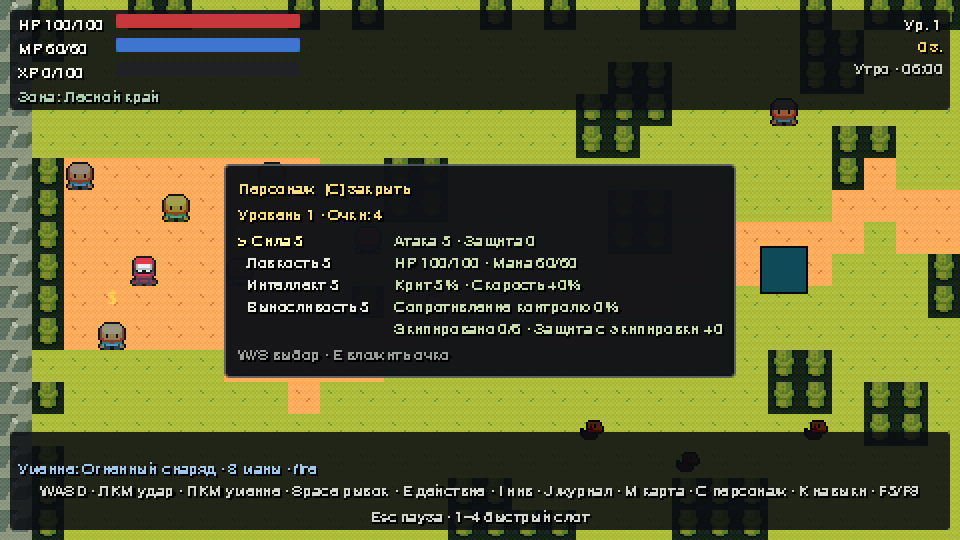
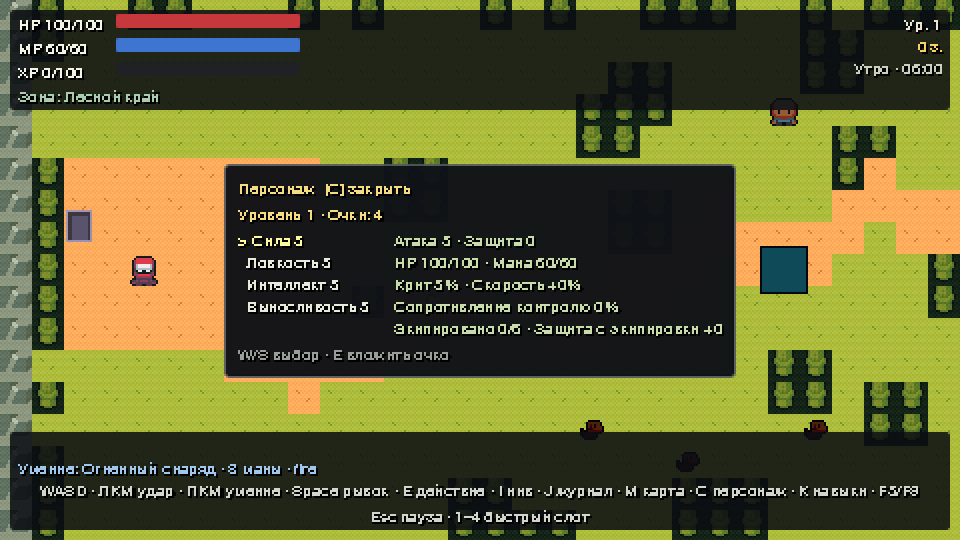
Скриншот деревни, документация на пять зон

diff --git a/TEST_PLAN.md b/TEST_PLAN.md
@@ -6,8 +6,8 @@
 
 ## 1. Назначение и границы
 
-Объект проверки — игра целиком: четыре переходящие сцены зон (`forest` с деревней
-на западной поляне, `ruins`, `dungeon`, `fortress`), девять NPC (Эдрик, торговец
+Объект проверки — игра целиком: пять переходящих сцен зон (`forest`, `village`,
+`ruins`, `dungeon`, `fortress`), девять NPC (Эдрик, торговец
 Йорек, кузнец Бран, травница Мила, плотник Серис, оружейница Альвена, Нела, Орен и
 Пепельный Паломник) плюс скрижаль `RuinTablet` в руинах, двенадцать квестов
 (`q01_ash_wolves` … `q12_officers_seal`), ветвящийся диалог, восемнадцать типов
@@ -22,8 +22,7 @@
 План отвечает на три вопроса: не сломалась ли логика, проходит ли игровой путь
 от NPC до награды, и что по-прежнему обязан посмотреть человек.
 
-Вне области проверки сознательно: отдельная сцена деревни (её нет — это безопасная
-область леса), озвучка шагов и звука дверей, доступность и снижение интенсивности
+Вне области проверки сознательно: озвучка шагов и звука дверей, доступность и снижение интенсивности
 эффектов, экспорт под Windows, soak длиннее 600 с (ТЗ просит 30–60 минут — см.
 §7), проигрыватель реплея (грани ввода пишутся в `replay/commands.jsonl`, но
 повторять их пока нечем), геймпад кроме атаки на `X`,
@@ -110,13 +109,13 @@ TESTS='godot --headless --path . --script res://tests/test_core.gd'   # $TESTS
 | `craft` | `data/recipes.json` — ровно 4 рецепта: 2 у кузнеца, 2 у травника, у неизвестного и пустого стенда пусто; причины отказа `unknown_recipe`, `locked`, `not_enough_gold`, `missing_material`, `no_space`; крад тратит ровно свои 5 золота и 2 материала и выдаёт результат, отказ не тратит ничего и не меняет число слотов; превью называет рецепт, пошлину, выход и пару need/have, у неизвестного рецепта пустое; разблокировка работает только у рецепта с флагом, ставит флаг и переживает save/load, чужой рецепт остаётся закрытым; `temper_sword` даёт постоянные +2 к атаке (5+6+2 в бою, в сумке не считает), повтор отвергается как `already_upgraded` без трат, улучшение переживает round-trip и не удваивается при повторном надевании; `reinforce_armor` не требует флага и даёт +1 защиты; в сцене стенд с подсказкой «Ремесло» открывается настоящим `interact` без трат, показывает 2 рецепта, строку деталя с предметом и «Атака +2» и материал 3/4, закрытый рецепт даёт текст `Рецепт ещё не известен`, `E` крафтит за 30 золота, повтор даёт `Это уже улучшено`, `Esc` закрывает без паузы, `I` проглатывается, модалки стенд/лавка/инвентарь передают `ui_blocking` друг другу |
 | `dialogues` | `DialogueDB` знает `edrik_intro` и `edrik_after_hunt`, неизвестного id нет, реплики привязаны к говорящему; узел выбора даёт ровно 2 варианта, неизвестный узел и неизвестный диалог читаются пустыми; `edrik_after_hunt` не стартует, пока квест не выполнен, и не стартует, пока квест активен; бегунок открывается на стартовом узле с говорящим «Эдрик» без вариантов, `advance` на узле выбора — no-op, выход за последний вариант и отрицательный индекс отвергаются без перехода; выбранный вариант ставит флаг `accepted_wolf_hunt` и запускает `q01_ash_wolves`, последняя реплика завершает разговор; жадный путь возвращается на узел выбора и квест не начинает; прочитанные узлы ключуются `dialogue_id:node_id`, не дублируются при повторной отметке, различаются между диалогами и переживают JSON round-trip; `skip_remaining` открывает всю текущую реплику |
 | `day_cycle` | `data/schedules.json` читается: 4 фазы, 3 NPC, положительная длина суток; `Forest` создаёт узел `DayClock`, фаза на заданной доле совпадает с таблицей, на старте доля равна 0 и потом растёт; под `ui_blocking` и на паузе часы не идут и жители не сдвигаются; каждая точка расписания проходима на сгенерированной карте, `Edrik`/`Yorek`/`Bran` несут `ScheduleComponent`, стартуют в утренней фазе на утренней точке, по принуждении ночи расходятся по домашним клеткам и никогда не оказываются на непроходимой; непроходимая, отсутствующая и sentinel-клетка отклоняются проверкой проходимости, безопасные обходятся; в HUD строка часов `Утро · 06:00` на доле 0 и `День · 12:00` на доле 0.25 |
-| `village` | `data/quests.json` — ровно 12 квестов, есть q01–q03; q02: прогресс по клыкам в сумке (0 при пустой, 3 из 4, ready при 4), сдача съедает ровно 4 клыка, платит 40 золота и 1 зелье, повтор отвергается, потеря клыка ниже цели откатывает прогресс, отказ при 3 клыках и при неоплате ничего не тратит, состояние и клыки переживают round-trip; q03: убийство волка не двигает прогресс, два кабана → ready, сдача платит 70 золота; в живом мире Мила — `Villager` с подсказкой «Поговорить» внутри безопасной зоны на проходимом тайле, отдаёт оба новых квеста, Эдрик остаётся первым интерактивом с `q01_ash_wolves`; геометрия зоны: центр поляны внутри, волчий спавн и соседний восточный тайл снаружи; волк за границей не пересекает её и не атакует через неё, враг, поставленный внутрь, сам выходит и изнутри не атакует; группа не оставляет `safe_zone_owner` |
+| `village` | `data/quests.json` — ровно 12 квестов, есть q01–q03; q02: прогресс по клыкам в сумке (0 при пустой, 3 из 4, ready при 4), сдача съедает ровно 4 клыка, платит 40 золота и 1 зелье, повтор отвергается, потеря клыка ниже цели откатывает прогресс, отказ при 3 клыках и при неоплате ничего не тратит, состояние и клыки переживают round-trip; q03: убийство волка не двигает прогресс, два кабана → ready, сдача платит 70 золота; в живом мире деревни Мила — `Villager` с подсказкой «Поговорить» внутри безопасной зоны на проходимом тайле, отдаёт оба новых квеста, Эдрик остаётся первым интерактивом деревни с `q01_ash_wolves`; геометрия зоны: пост Эдрика и тайл Милы внутри стены, тайл у восточных ворот и самый внешний край снаружи; волк за границей не пересекает её и не атакует через неё, враг, поставленный внутрь, сам выходит и изнутри не атакует; группа не оставляет `safe_zone_owner` |
 | `input_bindings` | ребинд отклоняет действие вне `REBINDABLE`, `null` и занятую клавишу; `interact`→`F` применяется и снимает `E`; `save_bindings` пишет файл вне `user://saves`, `load_bindings` возвращает привязку из файла; `reset_action` возвращает `E`; битый файл не ломает привязки |
 | `audio` | `AudioManager` — автозагрузка; layout из `audio_bus_layout.tres`: четыре шины (`Master`/`Music`/`SFX`/`UI`) на своих позициях; все 8 `.wav` на диске корректного формата и без клиппинга по пиковому сэмплу; `play_sfx` играет на своей шине, неизвестная шина не роняет, 10 быстрых попаданий держат живыми минимум 2 плеера пула с перекрытием на следующем кадре; `set_volume` 0.0 → примерно −80 dB; файл громкостей пишется атомарно tmp→rename вне `user://saves`, битый файл сохраняет дефолты (значения стоят; отсутствие бэктрейса доказывает общий grep по `SCRIPT ERROR`); группа не оставляет ни настроек, ни tmp |
 | `settings_sound` | экран настроек открывается на секции управления, `R` возвращает действие к дефолту автозагрузки, стрелки ходят по списку ребиндов; `Tab` переводит в секцию звука и обратно, курсор встаёт на первую строку новой секции; Music/SFX/UI стартуют с 70/90/80, `←→` шагают по 10 с зажимом на 0 и 100, `↑↓` ходят по строкам с зажимом на последней, `R` чинит только выбранную шину, `Enter` не выходит из секции и не меняет громкости; `Esc` закрывает панель ровно один раз и пишет файл настроек вне `user://saves` через tmp→rename; `open()` всегда начинает с секции управления; группа не оставляет ни audio-настроек, ни controls-файла |
-| `zone_registry` | `data/zones.json` читается как JSON-объект и объявляет ровно 4 зоны — `forest`, `ruins`, `dungeon` и `fortress`; у каждой имя, существующий скрипт мира и двухчисленный `entry_tile`; `scripts/world/zone_manager.gd` грузится; необъявленная зона (`atlantis`) отклоняется, объявленная принимается |
+| `zone_registry` | `data/zones.json` читается как JSON-объект и объявляет ровно 5 зон — `forest`, `village`, `ruins`, `dungeon` и `fortress`; у каждой имя, существующий скрипт мира и двухчисленный `entry_tile`; строка деревни сверяется с таблицей дословно — имя `Последняя деревня`, скрипт `scripts/world/village.gd`, вход `(36, 12)`; `scripts/world/zone_manager.gd` грузится; необъявленная зона (`atlantis`) отклоняется, объявленная принимается |
 | `zone_state` | `GameState.zone` стартует в `forest`; `set_zone` принимает объявленную зону, отвергает необъявленную и пустой id, не меняя значения; `reset` возвращает в лес; round-trip сохранения держит зону; необъявленная зона, не-строка и сейв без ключа `zone` откатываются к лесу; фикстура сейва до появления зон грузится в лес |
-| `zone_travel` | у `Main` есть `ZoneManager` из группы; старт в лесу, где стоит `RuinsGate` — интерактив с подсказкой на восточном краю, вне радиуса Эдрика и без overlap-обработчика (встать на ворота — не переход, бот в них не упирается); в HUD строка зоны и карта привязаны к лесу; переход пересобирает `World` вместо парковки старого, мир бежит `scripts/world/ruins.gd` с собственным игроком (ровно один в дереве), `GameState.zone` следует за переходом, ровно один тост, карта и строка зоны перебиндятся; руины спавнят 6 скелетов и отдают 5 landmark с `gate`; `World` остаётся раньше `HUD` среди детей `Main`; узел бота переживает переход и не начинает сценарий; назад — те же ворота: лес пересобирается с врагами и своими воротами, Эдрик снова первый интерактив, золото переносится живым состоянием без перезапуска; отказ в переходе не трогает ни мир, ни зону, ни тосты; группа оставляет забег в лесу |
+| `zone_travel` | у `Main` есть `ZoneManager` из группы; старт в лесу, где стоят `RuinsGate` — интерактив с подсказкой на восточном краю — и `VillageGate` на западном, ведущий в `village`; восточные ворота не первый интерактив леса (первый — сундук), сами ворота разнесены дальше радиуса интеракта и без overlap-обработчика (встать на ворота — не переход, бот в них не упирается); в HUD строка зоны и карта привязаны к лесу; переход лес → деревня пересобирает мир на `village.gd`, `GameState.zone` следует за ним и объявляется ровно одним тостом; переход пересобирает `World` вместо парковки старого, мир бежит `scripts/world/ruins.gd` с собственным игроком (ровно один в дереве), `GameState.zone` следует за переходом, ровно один тост, карта и строка зоны перебиндятся; руины спавнят 6 скелетов и отдают 5 landmark с `gate`; `World` остаётся раньше `HUD` среди детей `Main`; узел бота переживает переход и не начинает сценарий; назад — те же ворота: лес пересобирается с врагами и своими воротами, Эдрик снова первый интерактив, золото переносится живым состоянием без перезапуска; отказ в переходе не трогает ни мир, ни зону, ни тосты; группа оставляет забег в лесу |
 | `zone_save_restore` | пишется фикстура сейва с зоной `ruins` и позицией игрока в ней; загрузка на старте сначала переходит в сохранённую зону, потом ставит игрока на сохранённую точку: зона и позиция совпадают с записанными, `GameState.zone` и менеджер докладывают ту же зону; группа не оставляет зоны за собой |
 | `ruins_quests` | `data/quests.json` — ровно 12 квестов, оба квеста руин объявлены; в мире руин ровно одна `RuinTablet` — интерактив и `QuestStone` на giver-id квестов, на ближней стороне проёма не ближе 4 тайлов от входа, достижима из входа и помечена landmark `tablet`; нетронутая подсказывает «Прочесть скрижаль» и первым прочтением стартует `q04_bone_guard` с тостом, во время охоты новое задание не стартует (тост показывает прогресс); 4 трупа стражников → ready, подсказка «Сдать задание», сдача платит 80 золота, 70 xp и 2 зелья ровно один раз (третье прочтение — ноль, `QuestManager` отвергает повтор); затем скрижаль переходит к `q05_ruin_key`: collect читает живую сумку, подбор ключа даёт ровно один предмет и меняет подсказку, сдача тратит ровно один `ruin_key`, платит 50 золота и 40 xp, завершённая скрижаль говорит один раз и больше не платит, без готового задания подсказка возвращается к «Прочесть скрижаль»; два квеста руин не трогают три лесных: обратный переход пересобирает лес, скрижаль за игроком не приходит, Эдрик отдаёт, стартует, засчитывает и оплачивает `q01` как раньше |
 | `ruins_mechanics` | в руинах ровно 4 `ruin_skeleton` и 2 `ruin_skeleton_archer` (`SkeletonA..D`, `SkeletonArcherA..B`) на проходимых тайлах не ближе 6 тайлов от входа, стражники ближние, лучники со снарядом, все шесть дропают `bone_shard`; плита `RuinDoor` solid и интерактивна с подсказкой «Заперто», форма закрывает весь проём стены высотой 5 тайлов в колонке 14 (поднятая плита — зал достижим из входа); рычаг `Mechanism` на стороне прихода с подсказкой «Механизм»; пустые руки — ровно один тост с именем ключа, ноль изменений состояния; два ключа — потрачен ровно один, поднят флаг `ruin_door_open`, коллизия и shape сняты в том же кадре, ровно два тоста, подсказки «Открыто» и «Рычаг опущен»; повторное нажатие — «Уже открыто» без трат, `open()` повторно молчит и оставляет дверь открытой; сейв с флагом спавнит уже открытую плиту без вызова `open()`; ключ `ruin_key` — pickup на достижимой с закрытой дверью проходимой клетке вне реквизита, даёт ровно один предмет, гаснет с подбором, landmark `key` выпадает из списка после подбора (дверь и рычаг остаются), флаг подбора ездит в сохранение, пересборка зоны не респавнит подобранный ключ и не респавнит landmark; `ruin_key` и `bone_shard` объявлены в `data/items.json` и читаются через `ItemDB` с собственными глифами, у всех предметов уникальные иконки; лес после путешествия без двери и рычага, при своих 9 landmark и волчьем выводке, скелеты за игроком не приходят; группа не оставляет ни ключа, ни двери |
@@ -135,7 +134,7 @@ TESTS='godot --headless --path . --script res://tests/test_core.gd'   # $TESTS
 ## 4. Как читать результат
 
 - `$TESTS` печатает `checks: N  failures: M`. Норма — `failures: 0`.
-  Актуально на 2026-11-23: `checks: 3470  failures: 0`, 65 групп.
+  Актуально на 2026-11-24: `checks: 3525  failures: 0`, 65 групп.
 - Код возврата у Godot **не** является доказательством: движок выходит `0`
   и после ошибок времени выполнения. Смысл имеет только вывод.
 - Любая строка `ERROR` или `SCRIPT ERROR` в выводе — прогон считается
@@ -219,10 +218,11 @@ PEPEL_LOAD_SLOT=1 godot --path .   # загрузка слота на старт
   в `export_presets.cfg` есть, но каталог шаблонов экспорта
   `~/Library/Application Support/Godot/export_templates` пуст — собрать билд
   нельзя, пока шаблоны не установлены.
-- Зоны: четыре сцены — `forest` (с деревней на западной поляне), `ruins`,
+- Зоны: пять сцен — `forest`, `village`, `ruins`,
   `dungeon`, `fortress` — покрыты (`zone_registry`, `zone_state`, `zone_travel`,
-  `zone_save_restore`, `dungeon`, `fortress`). Пять зон ТЗ разложены по этим
-  четырём сценам: отдельной сцены деревни нет — это безопасная область леса.
+  `zone_save_restore`, `village`, `dungeon`, `fortress`). Все пять зон ТЗ стоят
+  отдельными мирами со своей строкой в `data/zones.json`: деревня вынесена из леса
+  и переходится через `VillageGate`/`ForestGate`.
 - Боссы: все пять на месте и покрыты — «Хранитель леса» (`boss_warden`),
   Корневая Матерь, Капитан Погребальной Стражи, Звонарь Пустой Крипты
   (`three_bosses`) и финальный «Король Без Венца» с тремя фазами и тремя

diff --git a/README.md b/README.md
@@ -59,9 +59,9 @@
 
 Двумерная Action RPG на Godot 4.7.2 (GDScript), сделанная по ТЗ
 [`Pepl_staryogo_korolevstva_TZ_RPG_Godot_v2.md`](Pepl_staryogo_korolevstva_TZ_RPG_Godot_v2.md).
-По замыслу — вертикальный срез средневекового тёмного фэнтези: деревня на
-опушке, лес с пепельными волками, руины с запертым залом и скелетами, подземелье
-под этими руинами и Древняя крепость на конце дороги.
+По замыслу — вертикальный срез средневекового тёмного фэнтези: Последняя деревня
+за западными воротами леса, лес с пепельными волками, руины с запертым залом и
+скелетами, подземелье под этими руинами и Древняя крепость на конце дороги.
 
 Ниже — то, что агент утверждает о своей работе. Проверяйте с осторожностью.
 
@@ -69,14 +69,16 @@
 
 | | |
 | --- | --- |
-| ![Мир](docs/screenshots/world.png) | ![Карта](docs/screenshots/map.png) |
-| Деревня и лес | Карта зоны с туманом |
-| ![Журнал](docs/screenshots/journal.png) | ![Персонаж](docs/screenshots/character.png) |
-| Журнал заданий | Экран персонажа |
+| ![Мир](docs/screenshots/world.png) | ![Деревня](docs/screenshots/village.png) |
+| Лесной край | Последняя деревня |
+| ![Карта](docs/screenshots/map.png) | ![Журнал](docs/screenshots/journal.png) |
+| Карта зоны с туманом | Журнал заданий |
+| ![Персонаж](docs/screenshots/character.png) | ![Инвентарь](docs/screenshots/inventory.png) |
+| Экран персонажа | Инвентарь со снаряжением |
 | ![Лавка](docs/screenshots/shop.png) | ![Руины](docs/screenshots/ruins.png) |
 | Лавка торговца | Руины у опушки |
-| ![Подземелье](docs/screenshots/dungeon.png) | |
-| Подземелье под руинами | |
+| ![Подземелье](docs/screenshots/dungeon.png) | ![Крепость](docs/screenshots/fortress.png) |
+| Подземелье под руинами | Древняя крепость |
 
 ## Запуск
 
@@ -138,7 +140,7 @@ open /Applications/Godot.app --args --path "$PWD"
 
 | # | задание | кто даёт |
 | --- | --- | --- |
-| 1 | Пепельные волки | Эдрик, опушка |
+| 1 | Пепельные волки | Эдрик, деревня |
 | 2 | Клыки для настоя | Мила, деревня |
 | 3 | Кабаны у южной тропы | Мила, деревня |
 | 4 | Мельница у опушки | Серис, мельница |
@@ -151,16 +153,19 @@ open /Applications/Godot.app --args --path "$PWD"
 | 11 | Свет в подземелье | Нела, лестница |
 | 12 | Печать офицера | Орен, казарма |
 
-Стартовый шаг тот же: поговорить с Эдриком (метка `!`), взять задание, убить трёх
-пепельных волков у опушки, вернуться и сдать. Награда выдаётся ровно один раз, и
+Стартовый шаг тот же: дойти по западной дороге до ворот в деревню, поговорить с
+Эдриком (метка `!`), взять задание, убить трёх пепельных волков у опушки, вернуться
+в деревню и сдать. Награда выдаётся ровно один раз, и
 сразу после сдачи становится доступно следующее задание линии — об этом
 сообщает надпись на экране.
 
-Дорога на восток ведёт к воротам в руины. Ржавый ключ, рычаг и запертая плита
+Дорога на запад ведёт к воротам в деревню — пятую зону, где живут шестеро жителей и
+куда враг не заходит. Дорога на восток ведёт к воротам в руины. Ржавый ключ, рычаг
+и запертая плита
 открывают зал в глубине двора — там лестница вниз, в подземелье под руинами.
 Из подземелья одна дверь, и она в его дальнем северо-восточном углу, за обеими
-шипастыми плитами: ведёт вверх, в Древнюю крепость. Маршрут целиком линеен —
-лес → руины → подземелье → крепость, — и каждая следующая зона открывается дверью в
+шипастыми плитами: ведёт вверх, в Древнюю крепость. Маршрут целиком — деревня ↔ лес
+→ руины → подземелье → крепость, — и каждая следующая зона открывается дверью в
 предыдущей. Односторонних переходов в игре нет: из крепости можно вернуться назад по
 той же дороге, а вниз — по лестнице в подземелье.
 
@@ -175,7 +180,8 @@ open /Applications/Godot.app --args --path "$PWD"
 
 Меню не мешает автоматическим проверкам: запуск с `--bot=...`, с `PEPEL_LOAD_SLOT`
 или со `PEPEL_SCREENSHOT` уходит в мир мимо него. Отдельно `PEPEL_SCREENSHOT_UI=menu`
-заставляет меню остаться и сняться самого себя, а `PEPEL_SCREENSHOT_UI=dungeon`
+заставляет меню остаться и сняться самого себя, `PEPEL_SCREENSHOT_UI=village`
+выводит игрока через западные ворота в деревню, а `PEPEL_SCREENSHOT_UI=dungeon`
 спускает игрока в третью зону тем же путём, что и игрок, — через руины и лестницу.
 `PEPEL_SCREENSHOT_UI=fortress` проделывает то же самое с четвёртой зоной: руины,
 подземелье, дверь в его дальнем углу.
@@ -244,11 +250,11 @@ open /Applications/Godot.app --args --path "$PWD"
 - **Мир** — `TileMapLayer` с процедурно собранным `TileSet`, детерминированный
   сид, дорога, поляна, два сундука, ловушка с предупреждением, подбираемые
   предметы и завал, открывающий короткий проход.
-- **Зоны** — `data/zones.json` и `ZoneManager`: лес, руины, подземелье и крепость,
-  переход через ворота и лестницу, сохранение текущей зоны, карта перестраивается под
+- **Зоны** — `data/zones.json` и `ZoneManager`: лес, деревня, руины, подземелье и
+  крепость, переход через ворота и лестницу, сохранение текущей зоны, карта перестраивается под
   новую зону. Пол у каждой зоны свой: зональный атлас выбирается виртуальным
-  `tile_atlas_path()` — лес тёплая трава, руины выцветший серый камень, подземелье
-  сумрачный синий, крепость тёмная охра; любые два пола различимы контрастом
+  `tile_atlas_path()` — лес и деревня тёплая трава, руины выцветший серый камень, подземелье
+  сумрачный синий, крепость тёмная охра; любые два пола диких зон различимы контрастом
   ≥ 1.5:1, что и проверяет тест `zone_registry` по пикселям самих атласов.
 - **Руины** — каменный двор с колоннами, запертая плита в единственном проёме,
   рычаг, ржавый ключ и шесть скелетов за дверью.
@@ -259,8 +265,11 @@ open /Applications/Godot.app --args --path "$PWD"
   так что назад проходится так же легко, как вперёд. Десять врагов, четыре названные
   области на карте и кольцо голого камня в глубине святилища, оставленное под
   финального босса: ни враг, ни предмет туда не ставятся.
-- **Деревня и безопасная зона** — враг не заходит на западную поляну и не
-  атакует из-за её границы.
+- **Деревня** — пятая зона, 40×26 за стеной: шестеро жителей с расписаниями, дома,
+  кузница, мельница, кожевенный двор и колодец на площади. Вход с восточной дороги
+  через `ForestGate`, обратно — `VillageGate` в лесу.
+- **Безопасная зона** — её владелец сама деревня: враг не заходит внутрь стены и не
+  атакует из-за её границы, а самих врагов в деревне не спавнится ни одного.
 - **Время суток** — цикл из четырёх фаз, расписания жителей, строка часов в HUD.
 - **Квесты** — двенадцать заданий на данных из `data/quests.json`: убийства и сбор,
   прогресс по событиям и по содержимому сумки, сдача ровно один раз. Все двенадцать
@@ -367,9 +376,10 @@ docs/       архитектура, отчёт о тестах, сборка, л
 
 ## Ограничения
 
-- Четыре сцены зон из пяти зон ТЗ: лес с деревней, руины, подземелье под ними и
-  Древняя крепость. Пятая зона — деревня — отдельной сцены не имеет: это западная
-  поляна леса, безопасная зона, а не мир, в который переходят.
+- Все пять зон ТЗ на месте: лес, деревня, руины, подземелье под ними и Древняя
+  крепость. Деревня намеренно делит палитру с лесом (`tiles_forest.png`) — своего
+  атласа у неё нет, а правило различимых полов `CRITIC-P1-01` касается четырёх
+  диких зон.
 - Восемнадцать типов обычных врагов — норма §10 закрыта по механике: типы
   различаются набором черт, а не только цифрами. Норма §11 по боссам тоже закрыта:
   все пять на месте (Хранитель леса, Корневая Матерь, Капитан Погребальной Стражи,

diff --git a/PROCESS.md b/PROCESS.md
@@ -69,13 +69,13 @@
 | --- | --- |
 | Движок | Godot `4.7.2.stable.official.ed1daf0bf` |
 | Корень проекта | `корень репозитория` |
-| Этап по §23 ТЗ | Гейты 0, 2, 3, 4 закрыты; гейт 5 закрыт (4 сцены зон + область деревни, 18 типов врагов); гейт 6 закрыт (5 боссов, 3 концовки, нить Паломника); гейт 7 частично (13 сценариев и 7 профилей есть, soak 600 с, watchdog со STUCK-детектором и логи `inputs`/`observations`/`performance` в коде; не закрыто: soak 30–60 мин по ТЗ, проигрыватель реплея); гейт 8 частично (SFX + музыка + эмбиент + доступность есть; шагов и дверей нет) |
-| Тесты | `checks: 3470  failures: 0`, 65 групп |
+| Этап по §23 ТЗ | Гейты 0, 2, 3, 4 закрыты; гейт 5 закрыт (5 сцен зон, 18 типов врагов); гейт 6 закрыт (5 боссов, 3 концовки, нить Паломника); гейт 7 частично (13 сценариев и 7 профилей есть, soak 600 с, watchdog со STUCK-детектором и логи `inputs`/`observations`/`performance` в коде; не закрыто: soak 30–60 мин по ТЗ, проигрыватель реплея); гейт 8 частично (SFX + музыка + эмбиент + доступность есть; шагов и дверей нет) |
+| Тесты | `checks: 3525  failures: 0`, 65 групп |
 | Боты | BOT-001…BOT-013 — все 13 PASS |
 | Чистый прогон | `--quit-after 120` → 0 строк `ERROR` |
 | Git | рабочее дерево чисто, каждый принятый шаг закоммичен и запушен в `origin/main`; история — `git log --oneline` |
-| Матрица ТЗ | 154 пункта закрыто `[x]`; в roadmap открыто 9 задач, 6 частично, 1 заблокирована |
-| Контент | 4 сцены зон (лес с деревней, руины, подземелье, крепость) + область деревни; 18 типов обычных врагов + 5 боссов (23 сцены врагов); 9 NPC; 12 квестов; 13 предметов; 8 навыков; 6 музыкальных дорожек + эмбиент леса; 3 концовки |
+| Матрица ТЗ | 155 пунктов закрыто `[x]`; в roadmap открыто 9 задач, 6 частично, 1 заблокирована |
+| Контент | 5 сцен зон (лес, деревня, руины, подземелье, крепость); 18 типов обычных врагов + 5 боссов (23 сцены врагов); 9 NPC; 12 квестов; 13 предметов; 8 навыков; 6 музыкальных дорожек + эмбиент леса; 3 концовки |
 
 ---
 
@@ -85,7 +85,7 @@
 
 | Требование | Статус | Комментарий |
 | --- | --- | --- |
-| 5 основных областей | `[~]` | 4 сцены зон покрывают пять зон ТЗ: лес (деревня — западная поляна той же карты), руины, подземелье, крепость (`bef9a44`, `2e89309`). Отдельной сцены деревни нет — это безопасная область леса, а не переходная зона |
+| 5 основных областей | `[x]` | Пять зон ТЗ — пять отдельных миров со своей строкой в `data/zones.json`: лес, деревня, руины, подземелье, крепость. Деревня вынесена из леса и переходится через `VillageGate`/`ForestGate`, руины — через `RuinsGate`. Проверено `godot --headless --path . --script res://tests/test_core.gd` → `checks: 3525  failures: 0`, 65 групп. Коммиты `72e8420`, `bef9a44`, `2e89309` |
 | 18+ обычных типов врагов | `[x]` | 18 механически разных типов: тест `enemy_roster` собирает из каждой сцены кортеж черт и требует 18 разных кортежей. Коммиты `97e34cd`, `17197b6` |
 | 3 промежуточных босса | `[x]` | Корневая Матерь, Капитан Погребальной Стражи, Звонарь Пустой Крипты — по две фазы и своей механике. Коммит `70fbd47` |
 | 1 финальный босс | `[x]` | Король Без Венца, три фазы, алтарь судьбы. Коммит `a75b228` |
@@ -131,7 +131,7 @@
 
 | Требование | Статус | Комментарий |
 | --- | --- | --- |
-| 5 связанных зон | `[~]` | Пять зон ТЗ разложены по четырём сценам: лес (деревня — западная поляна той же карты, отдельной сцены деревни нет), руины, подземелье под руинами, Древняя крепость. Маршрут линеен: лес → руины → подземелье → крепость, каждая следующая зона открывается дверью в предыдущей. `916a24e`, `f3895b2`, `bef9a44`, `2e89309` |
+| 5 связанных зон | `[x]` | Пять зон ТЗ — пять отдельных сцен со своей строкой в `data/zones.json`: лес, деревня, руины, подземелье под руинами, Древняя крепость. Маршрут деревня ↔ лес → руины → подземелье → крепость: деревня сцеплена с лесом парой ворот `VillageGate`/`ForestGate`, дальше каждая следующая зона открывается дверью в предыдущей. Проверено `zone_registry` (пять строк таблицы) и `zone_travel` (переход лес → деревня). `916a24e`, `f3895b2`, `bef9a44`, `2e89309`, `72e8420` |
 | У каждой зоны свой визуальный код | `[x]` | Четыре сцены различаются палитрой и силуэтом: лес, каменный двор руин с колоннами, петляющие коридоры подземелья, залы крепости. `2e89309` |
 | 2+ необязательные ветки на зону | `[ ]` | В лесу есть ответвления, но не оформлены как отдельные ветки |
 | 3+ находки на зону | `[x]` | Лес: 3 находки (`d649a79`); записок/lore и секретных проходов нет |
@@ -375,7 +375,7 @@
 | 2. Вертикальный срез | `[x]` | Движение, камера, бой, 2 врага, NPC, диалог, квест, предмет, HUD, save |
 | 3. Боевая основа | `[x]` | DamageResolver, hitbox/hurtbox, лут, смерть, статусы (`fd4fdd3`), 4 школы (`26612f4`), комбинации (`7ea0983`), комбо-цепочки (`7119db8`) |
 | 4. RPG-контур | `[~]` | Инвентарь, экипировка, статы, уровни, квесты, торговля, ремесло, расписания и диалоги есть; репутации и состояний NPC нет |
-| 5. Мир и враги | `[x]` | 4 сцены зон покрывают пять зон ТЗ (лес с деревней, руины, подземелье, крепость), 18 типов врагов из 18. Отдельной сцены деревни нет — это безопасная область леса |
+| 5. Мир и враги | `[x]` | Пять сцен зон — лес, деревня, руины, подземелье, крепость (`72e8420`), 18 типов врагов из 18. Деревня — отдельный мир со своей строкой в `data/zones.json` и своей безопасной зоной |
 | 6. Боссы и сюжет | `[x]` | 5 боссов (мини-босс «Хранитель леса» + 3 промежуточных + финальный Король), 3 концовки, сквозная нить Паломника |
 | 7. Бот и телеметрия | `[~]` | 13 сценариев и 7 профилей закрыты; watchdog со STUCK-детектором и логи `inputs`/`observations`/`performance` есть в коде (`3e25ee0`). Остаются: soak 30–60 мин по ТЗ (сейчас 600 с), проигрыватель реплея, детектор повторяющихся маршрутов |
 | 8. UI/аудио/полировка | `[~]` | Звук закрыт: 8 SFX, 6 музыкальных дорожек + эмбиент леса, шины и громкости; не закрыто: доступность и снижение интенсивности эффектов, озвучка шагов и дверей |
@@ -400,7 +400,7 @@
 | `README.md` | `[x]` |
 | `ARCHITECTURE.md` | `[x]` |
 | `ASSET_CREDITS.md` | `[x]` |
-| `TEST_PLAN.md` / `TEST_REPORT.md` | `[x]` Отчёт `docs/TEST_REPORT.md` плюс отдельный план `TEST_PLAN.md`: уровни, как читать вывод, ручная проверка, пробелы. Актуально на 2026-11-23: 65 групп, `checks: 3470  failures: 0`, в отчёте есть прогон этой даты (§2.4) |
+| `TEST_PLAN.md` / `TEST_REPORT.md` | `[x]` Отчёт `docs/TEST_REPORT.md` плюс отдельный план `TEST_PLAN.md`: уровни, как читать вывод, ручная проверка, пробелы. Актуально на 2026-11-24: 65 групп, `checks: 3525  failures: 0`, в отчёте есть прогон этой даты (§2.5) |
 | `BOT_GUIDE.md` | `[x]` Файл `BOT_GUIDE.md`: 13 сценариев, 7 профилей, формат логов `user://debug_runs/<run_id>/`, воспроизведение, ограничения. Проверено 2026-11-23: BOT-001…013 → PASS |
 | `CRITIC_REPORTS/` | `[ ]` |
 | `CHANGELOG.md` | `[x]` Файл `CHANGELOG.md`: история по этапам A–H с хешами коммитов |
@@ -517,6 +517,8 @@
   Коммит `916a24e`: деревня — западная поляна на карте леса (отдельной сцены
   деревни нет), безопасная зона без спавна врагов, травница Мила, квесты
   `q02_gather_fangs`/`q03_clear_boars`, сбор по сумке; тесты 1351/0 (45 групп).
+  Позже `72e8420` вынес деревню из леса в самостоятельную зону `Village` со своей
+  строкой в `data/zones.json`, парой ворот и своей безопасной зоной.
 - [x] Лес (расширить текущий): 4 врага, 1 мини-босс, 3 находки, shortcut.
   Коммиты `e517cd2` (кабан и wisp, тесты 1121/0), `2f7a00c` (мини-босс
   «Хранитель леса», тесты 1252/0), `d649a79` (3 находки + разрушаемый

diff --git a/docs/TEST_REPORT.md b/docs/TEST_REPORT.md
@@ -142,6 +142,31 @@ checks: 3470  failures: 0
 (`cautious`, `normal`, `aggressive`, `explorer`, `collector`, `novice`,
 `master`) на `BOT-002` дают `PASS`.
 
+### 2.5. 2026-11-24 — деревня как пятая зона
+
+Числа §2, §2.1, §2.2, §2.3 и §2.4 — история прогонов 2026-11-18, 2026-11-19,
+2026-11-20, 2026-11-21 и 2026-11-23; они не переписываются. Ниже — результат
+прогона на текущем HEAD, после того как деревня вынесена из леса в самостоятельную
+зону `Village`. Групп осталось 65, но проверок стало 3525 вместо 3470: реестр зон
+считает пять строк таблицы и читает из неё имя, скрипт и тайл входа деревни,
+отдельно проверяются пара ворот `VillageGate`/`ForestGate`, безопасная зона внутри
+деревенской стены и то, что боты идут через них, а не телепортируются.
+
+```
+$ godot --headless --path . --script res://tests/test_core.gd
+  PASS  suite left no controls file behind
+  PASS  every test group ran to completion (got 65/65)
+
+checks: 3525  failures: 0
+```
+
+Сопровождающий прогон того же дня: `godot --headless --path . --quit-after 120`
+→ 0 строк `ERROR` / `SCRIPT ERROR`. Все тринадцать ботов проходят: `BOT-001`,
+`BOT-002`, `BOT-003`, `BOT-004`, `BOT-005`, `BOT-006`, `BOT-007`, `BOT-008`,
+`BOT-009`, `BOT-010`, `BOT-011`, `BOT-012`, `BOT-013` → `PASS`. Семь профилей
+(`cautious`, `normal`, `aggressive`, `explorer`, `collector`, `novice`,
+`master`) на `BOT-002` дают `PASS`.
+
 ## 3. Отладочный бот
 
 | Сценарий | Что проверяет | Результат |
